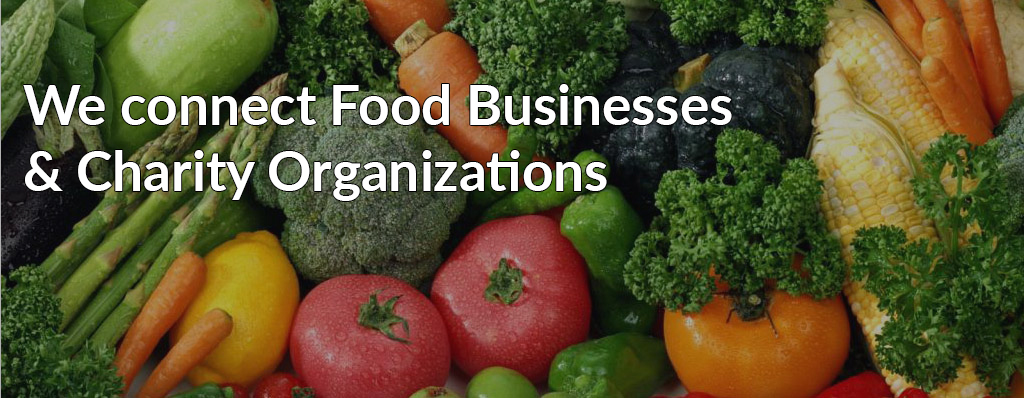
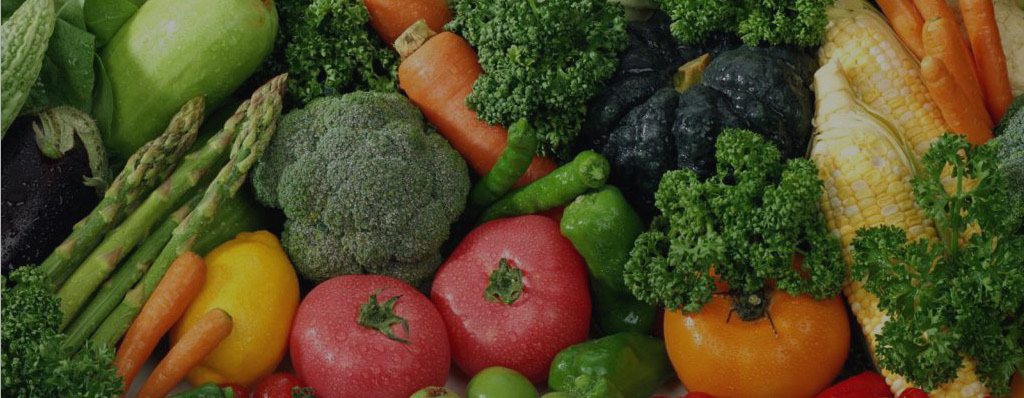
update 27.09.

Changed region(s): [[0.0, 0.2111, 0.7188, 0.3317], [0.0, 0.3618, 0.5938, 0.5126]]

diff --git a/landingpage.html b/landingpage.html
@@ -14,12 +14,12 @@
     <div class = "col-lg-3"><a href = "registration_page2.html"><button> Register as Organization </button></a></div>
     <div class = "col-lg-3"><a href = "registration_page1.html"><button> Register as Donator </button></a></div>
     <div class = "col-lg-3"><a href = "login.html"><button> Login </button></a></div>
-    <div class = "col-lg-3"><img class ="topnavlogo" src="pics/beats.png" alt="logo" > </div>
+    <div class = "col-lg-3"><img class ="topnavlogo" src="pics/logo2.png" alt="logo"></div>
   </div>
 
-  <div class="opener">
-    <b>
-    <a href="#sign-up"><button class="btn1 btn-primary">Sign Up Now</button></a>
+  <div class= "opener">
+    <p class="opentext">We connect Food Businesses <br>& Charity Organizations</p> 
+    <a href="#sign-up"><button class="btn1 btn-primary">Sign up now!</button></a>
   </div>
 
   <div class="container-fluid">
@@ -37,14 +37,14 @@
         </ul>
       </div>
       <div class ="col-md-5">
-    <img src="pics/text1.png"/>
+    <img src="pics/problem.png" width="40%" height="40%">
       </div>
     </div>
 
         <div class = "row content2">
           <div class = "col-md-1"></div>
           <div class ="col-md-5">
-        <img src="pics/text2.png"/>
+        <img src="pics/solution.png" width ="95%" height = "100%" a>
           </div>
           <div class = "col-md-5" id = "solution">
             <ul> The Solution
@@ -54,10 +54,6 @@
                   distribution</li>
               <li>FoodSpare connects businesses with social institutions, food banks and
                   charities </li>
-              <li>Duis aute irure dolor in reprehenderit in voluptate velit
-                 esse cillum dolore eu fugiat nulla pariatur.
-              <li>Duis aute irure dolor in reprehenderit in voluptate velit
-                 esse cillum dolore eu fugiat nulla pariatur.</li>
             </ul>
           </div>
         </div>
@@ -66,8 +62,8 @@
         <h1>Your Advantages</h1>
         <img class = "advantages" src = "pics/advantages.png">
         <nav id = "sign-up">
-          <a href = "registration_page1.html"><button class="btn btn-primary">Sign Up as Food Donator</button></a>
-          <a href = "registration_page2.html"><button class="btn btn-primary">Sign Up as Organization</button></a>
+          <a href = "registration_page1.html"><button class="btn btn-primary">Sign up as Food Donator!</button></a>
+          <a href = "registration_page2.html"><button class="btn btn-primary">Sign up as Organization!</button></a>
         </nav>
       </div>
     </div>

diff --git a/landingpage.css b/landingpage.css
@@ -13,6 +13,7 @@ body {
   box-shadow: 1px 0px 1px;
   font-size: 17px;
   width: 100%;
+  background-color: white;
 }
 /*Change logo*/
 .topnavlogo {
@@ -29,14 +30,19 @@ body {
     height: 550px;
     color: white;
 }
-  
+.opentext {
+    font-size: 65px;
+    padding-left: 160px;
+    padding-top: 70px;
+}
+
 .btn1 {
   color: white;
   background-color: #12C237;
   padding: 20px;
   font-size: 22px;
-  margin-top: 345px;
-  margin-left: 45px;
+  margin-top: 80px;
+  margin-left: 160px;
   flex: 1;
 }
 
@@ -87,6 +93,7 @@ button {
   border: none;
   cursor: pointer;
   color: black;
+  background-color: white;
 }
 
 .btn {

diff --git a/login.html b/login.html
@@ -23,7 +23,7 @@
             </div>
             <div class='inline'>
                 Account:<br><input type = "text" placeholder = " Food-Donator or Organization" class = "donatorororga"><br><br><br>
-                <button class = "sign-up"> Sign Up Now </button>
+                <button class = "sign-up"> Login now! </button>
             </div>
           </fieldset>
         </form>

diff --git a/registration_page2.html b/registration_page2.html
@@ -28,7 +28,7 @@
               Your Password: <br><input type = "text" placeholder = " type in password..." class = "password"><br><br>
             </div>
             </fieldset>
-            <button class = "sign-up"> Sign Up Now </button>
+            <button class = "sign-up"> Sign up now! </button>
         </form>
         </div>
     </body>

diff --git a/registration_page1.html b/registration_page1.html
@@ -28,7 +28,7 @@
                 Your Password: <br><input type = "text" placeholder = " type in password..." class = "password"><br><br>
             </div>
           </fieldset>
-            <button class = "sign-up"> Sign Up Now </button>
+            <button class = "sign-up"> Sign up now! </button>
         </form>
       </div>
     </body>
